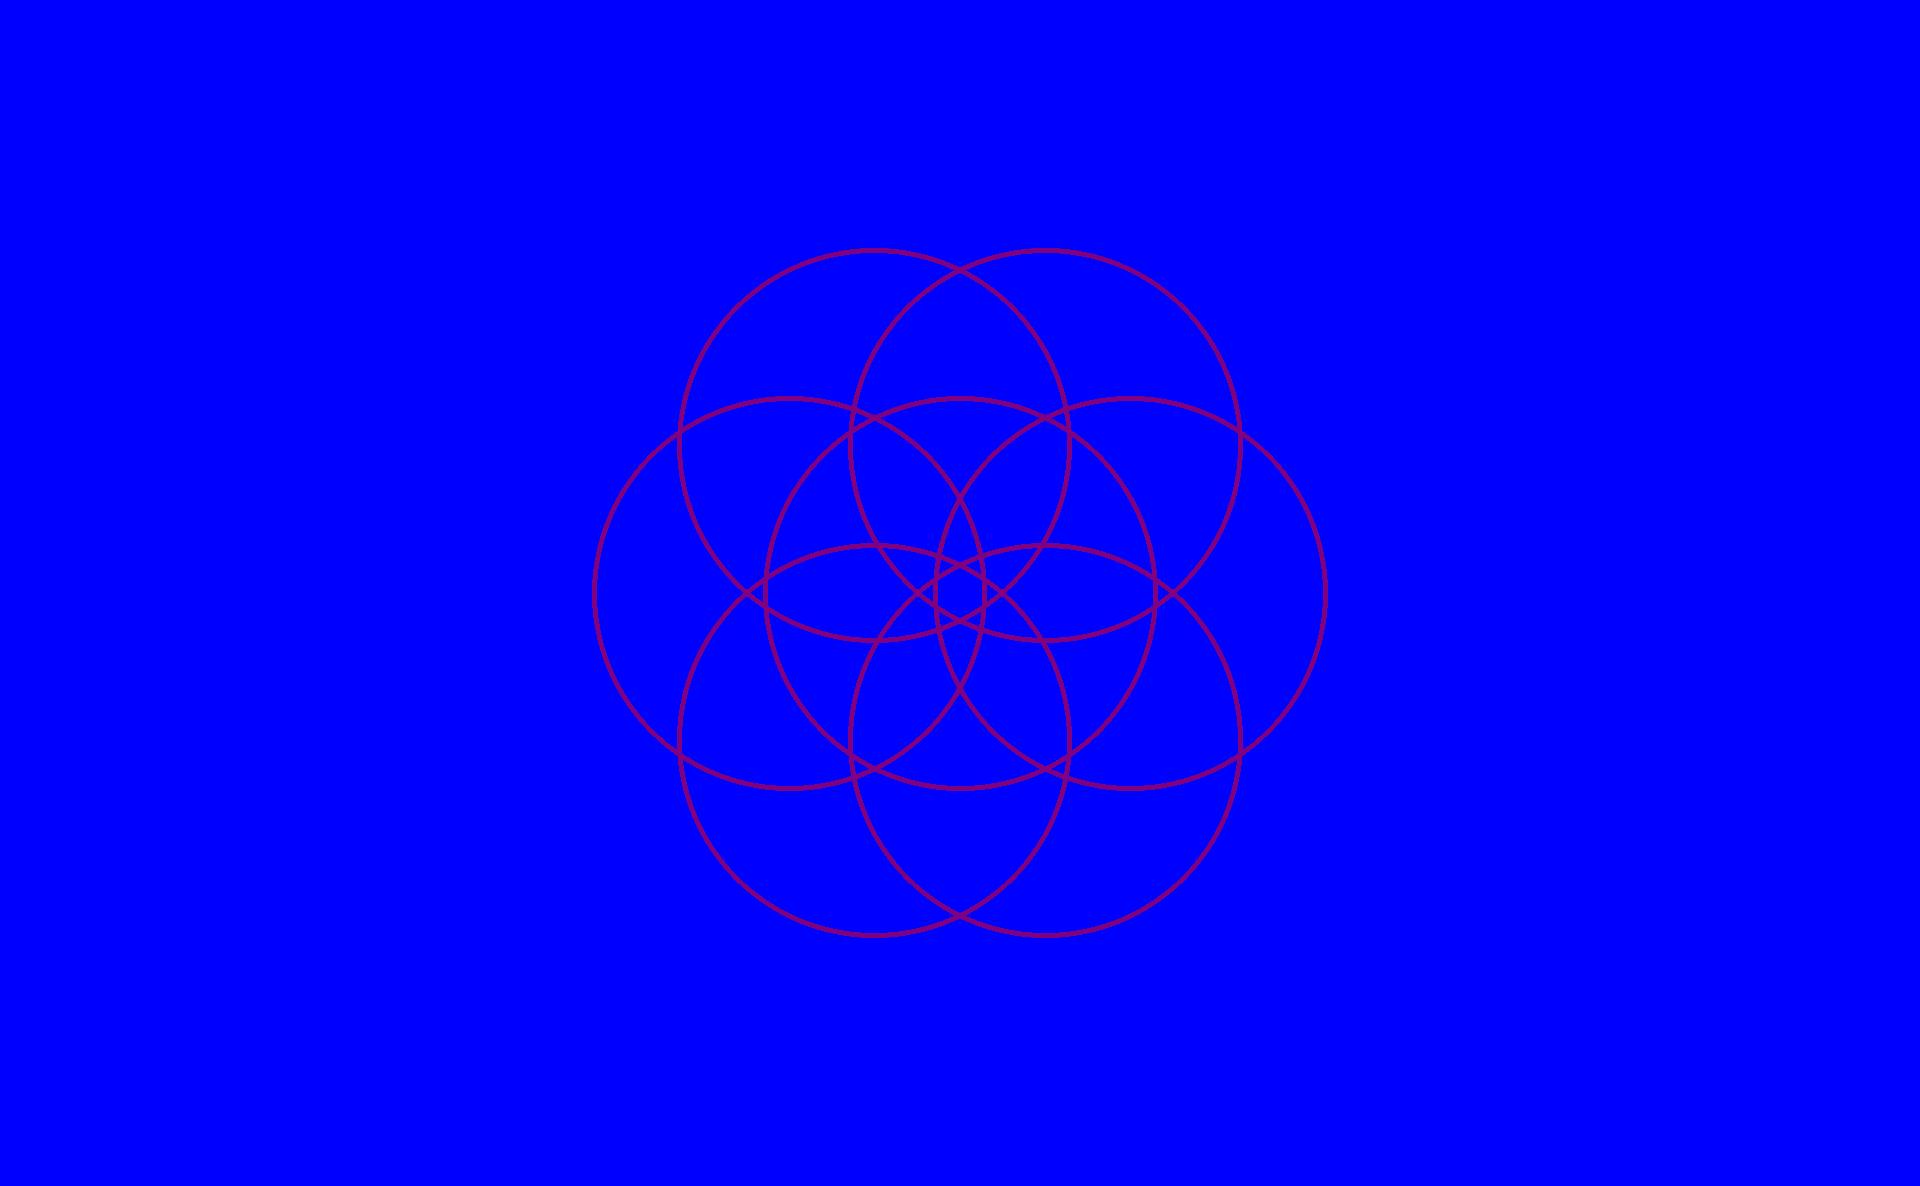
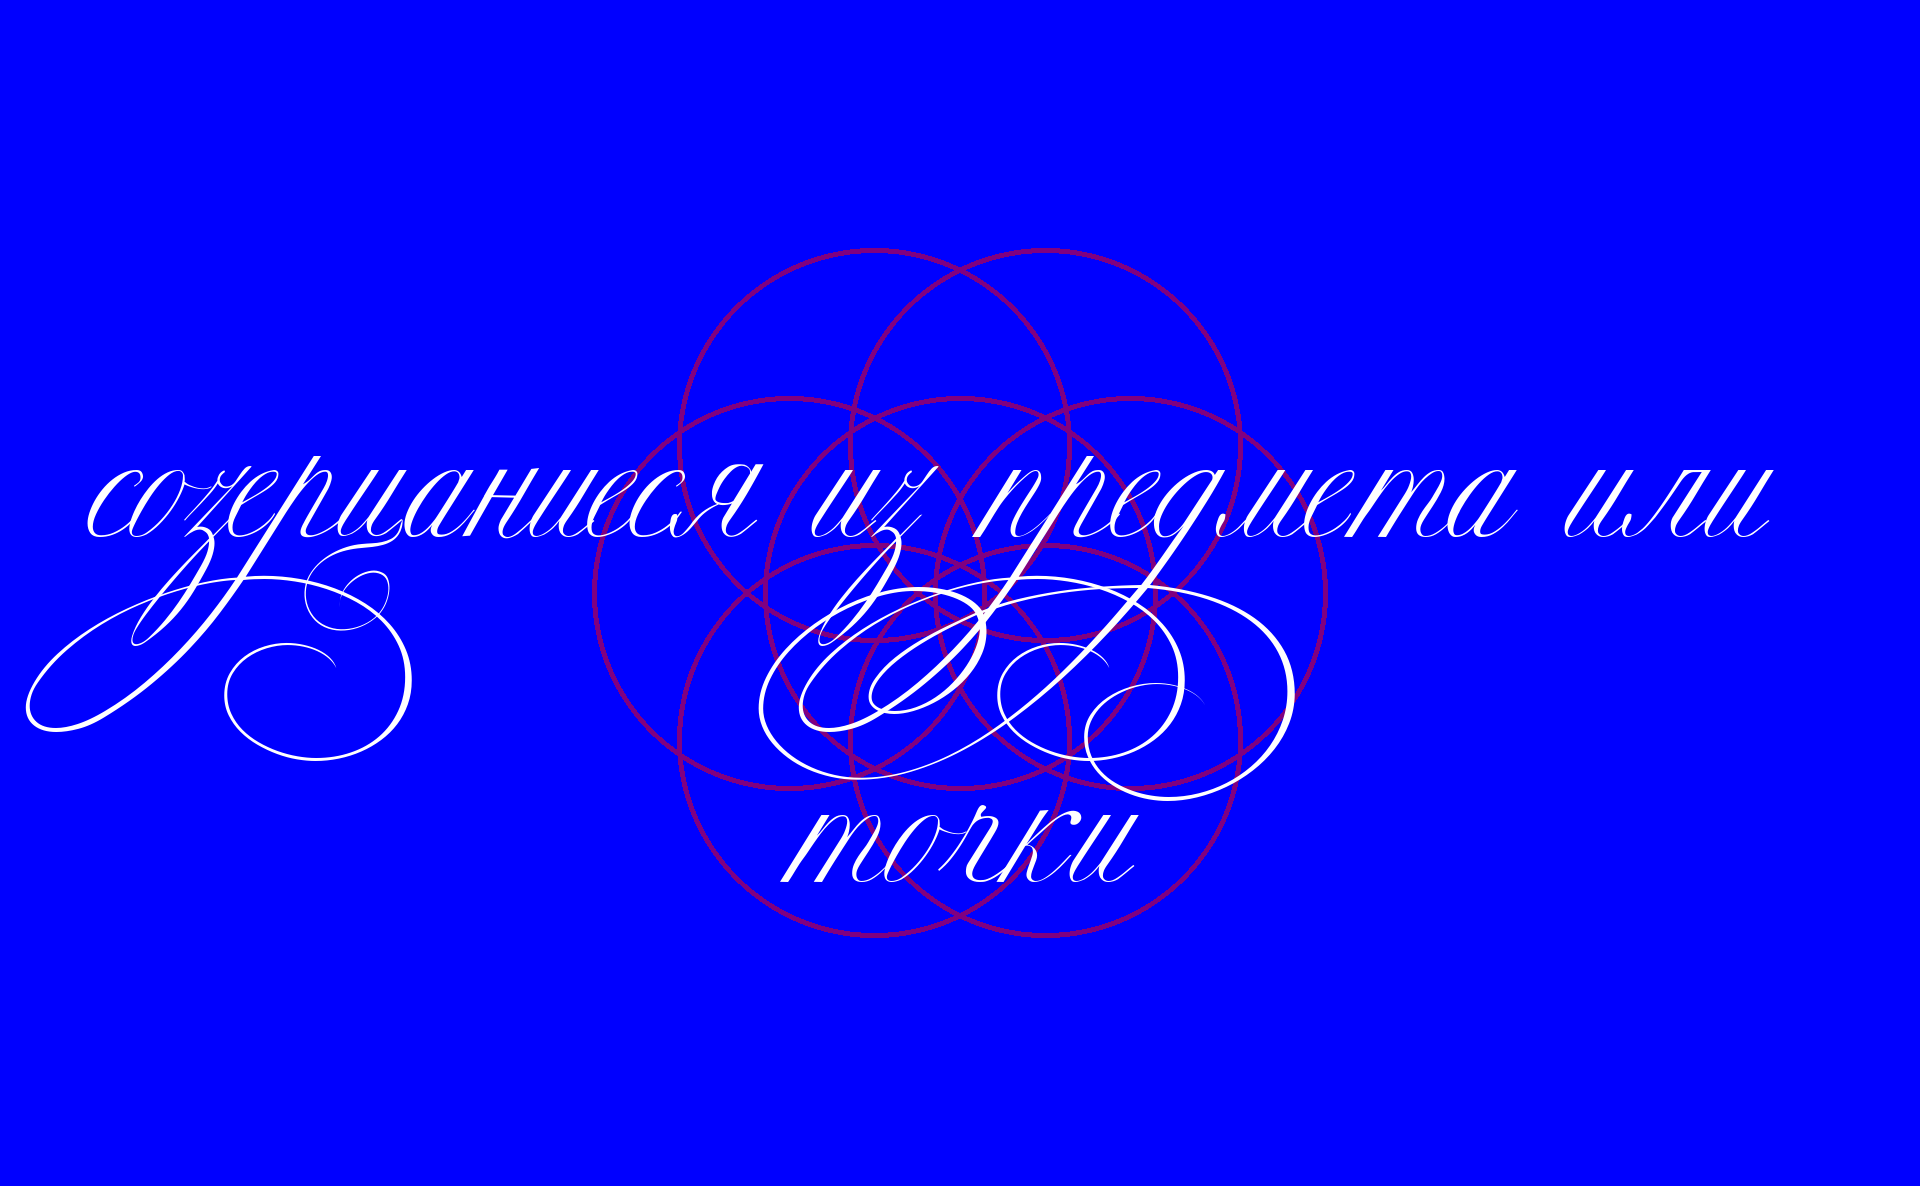
18 Собатъ 18 Веничъ05 15 7527

diff --git a/code/py/мудростьЗаставь/1.py b/code/py/мудростьЗаставь/1.py
@@ -8,12 +8,13 @@ HEIGHT = int(WIDTH / 1.618)
 BACKGROUND_COLOR = (0, 0, 255)  # Синий фон
 TEXT_COLOR = (255, 255, 255)  # Белый текст
 IMAGE_DIR = "."
-IMAGE_FILE = "_temp_image.png"
+IMAGE_FILE = "/home/bk/Documents/code/py/мудростьЗаставь/_temp_image.png"
 MAX_FONT_SIZE = 150
 MIN_FONT_SIZE = 20
 MAX_WIDTH = WIDTH - 100
 FONT_PATH = "/home/bk/Documents/code/py/мудростьЗаставь/2.ttf"  # Путь к вашему шрифту
 TIME_DELAY = 60
+
 
 def draw_sacred_geometry(draw):
     flower_color = (128, 0, 128)  # Фиолетовый цвет
@@ -100,7 +101,7 @@ def set_wallpaper(image_path):
 
 def main():
     with open(
-        "/home/bk/Insync/bevokactp@gmail.com/Google Drive/1/pa/1/мудрости.txt",
+        "/home/bk/Insync/bevokactp@gmail.com/Google Drive/1/pa/1/мудрости",
         "r",
         encoding="utf-8",
     ) as file:
